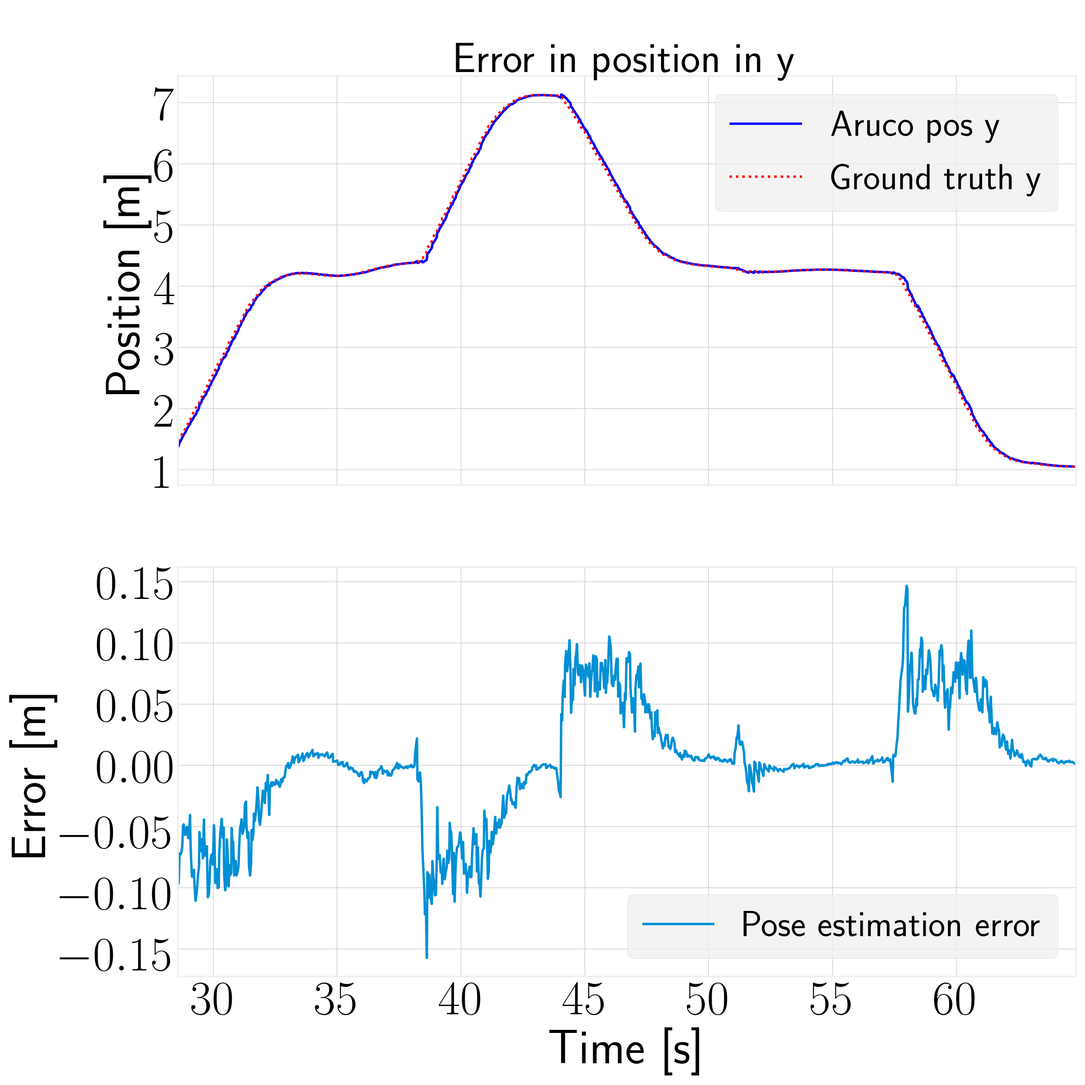
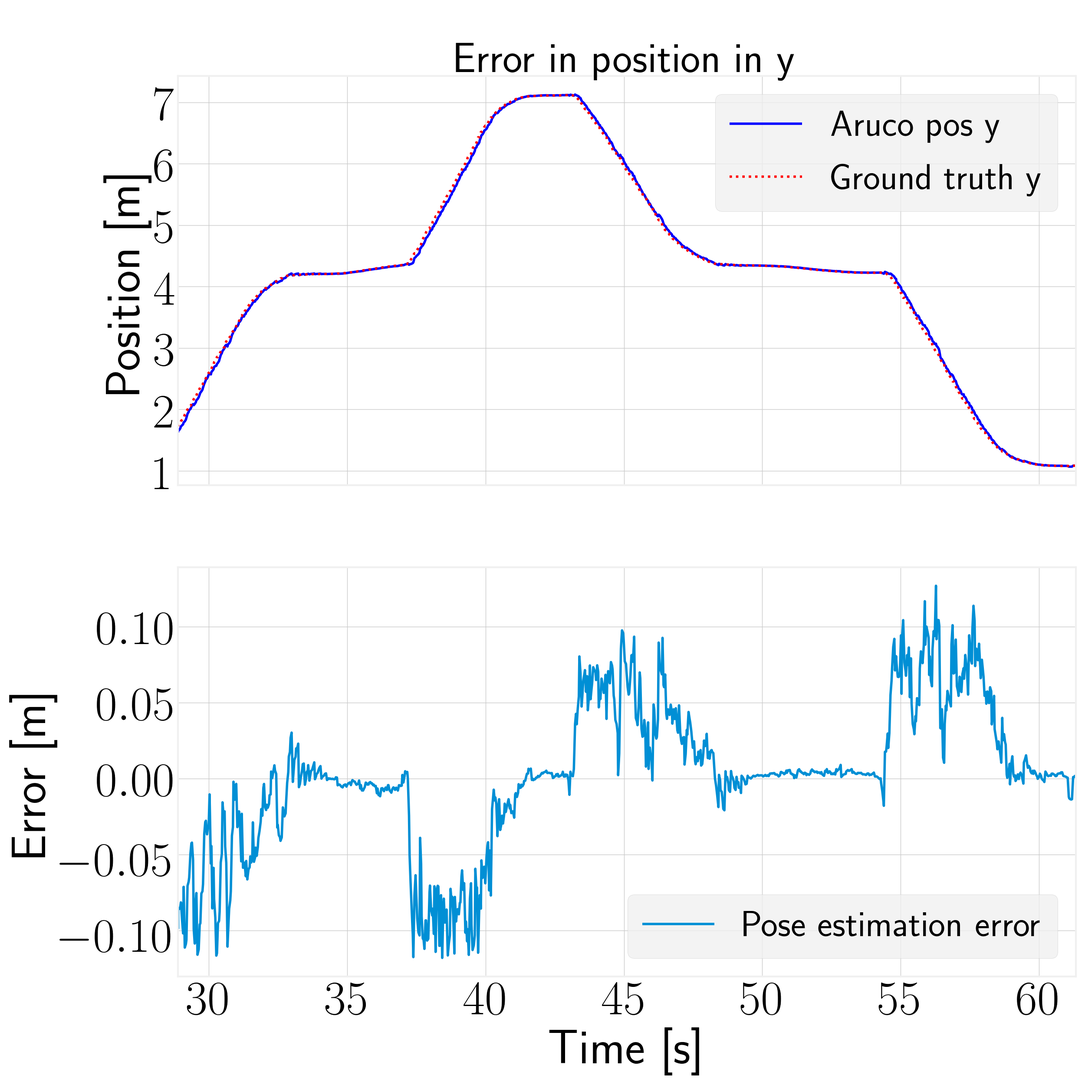
Report updated

diff --git a/master_report/Sections/discussion.tex b/master_report/Sections/discussion.tex
@@ -14,20 +14,21 @@ From this analysis the default settings of the control schemes in the PX4 autopi
 
 The results of testing the implementation of the GPS to vision transition from Section \ref{fig:state_machine_gps2vision_transition} can be seen in Section \ref{sec:gps2vision_transition}. In general it yielded quite good and reliable performance as seen Table \ref{tab:gps2vision_statistics} where almost all runs where completed successfully in a reasonable amount of time. The velocity of the UAV was set to a higher value when using GPS compared to that of using vision (using the GPS2Vision marker board for pose estimates), because instabilities of the system could occur when the UAV was flying towards the GPS2Vision marker board in the last step of the transition as seen in Figure \ref{fig:GPS2Vision_test1_test3}. This instability was due to the UAV having a large angle in roll when flying fast which caused the UAV to loose sight of the GPS2Vision marker board located on the wall. This puts a limit to the current implementation of the system in regard to horizontal velocity. This issue of losing sight of the markers was also observed when the UAV changed the use of camera which can be seen in Figure \ref{fig:gps2vision_vision_navigation}, where the UAV begins to use data from the bottom camera for pose estimation of ArUco markers located on the ground. In this case, the reason for losing sight of the markers located on the ground was due to that a strong wind applied to the simulation in test 3 in Table \ref{tab:gps2vision_statistics}. Here it may be noticed that the UAV where only able to complete 17 out of 20 trials. This is because the UAV lost sight of the markers located on the ground which forced the UAV to land on the ground. As already mentioned, this puts a limit to the implementation where wind speeds of more than 7-10 $\frac{m}{s}$ may cause instabilities to the system and should be avoided. Even though strong winds where applied, the UAV had no problems of navigating to the GPS2Vision marker board as seen in Figure \ref{fig:GPS2Vision_test3}. Here it can be seen that the ground truth of the routes that the UAV takes from an initial position through the substates of the GPS to vision transition, is more disturbed than the one in Figure \ref{fig:GPS2Vision_test1} due to the wind. This concludes that the systems works, but has its limitations because of the fixed cameras attached to the UAV. A way to mitigate this issue, is to use gimbal cameras instead. This type of camera is equipped with motors and sensors which makes it capable of stabilizing its pose. By implementing this solution on the UAV, the just described issues could be solved, and thereby making the system more robust to external influences like wind.     
 
-Results of vision based navigation utilizing sensor fusion can be seen in Section \ref{sec:vision_based_navigation}. The performance of the implementation can be seen in Table \ref{tab:vision_navigation_stastitics} where the used ArUco marker boards can be seen in Figure \ref{fig:vision_navigation_boards}. It is quite remarkable that the error in pose estimation does not seem to grow between from test one and two using the configuration in Figure \ref{fig:vision_navigation_full_pattern_board} and \ref{fig:vision_navigation_one_pattern_board} respectively. Here the error is 2.44 centimeters for the mean position and 1.59 and 1.30 degrees for the mean angles. One would expect that the error should increase as the number of ArUco markers decreases in the image. A possible explanation to this is that when the UAV is flying, an hereby having an angle in either roll or pitch, the outermost markers visible in the image gives bad results because of the perspective in the image which causes the resulting error in the ArUco pose estimations to increase. The possibility for this scenario is reduced in the configuration in Figure \ref{fig:vision_navigation_one_pattern_board}, but now a lesser number of markers in the image yields the same corresponding error in the pose estimation. The error first seems to increase when a minimum amount of ArUco markers are located on the ground as seen in the configuration in Figure \ref{fig:vision_navigation_one_pattern_board_missing_markers} and \ref{fig:vision_navigation_one_pattern_board_missing_markers_wear}. This increased error is due to the system does not get the same amount of updates from the ArUco pose estimation and has to rely more on the noisier measurements from IMU and barometers used in the sensor fusion algorithm. However, it must be mentioned that the biggest contributor to the increased error comes from a time delay between the calculations of sensor fusion and the ground truth pose of the UAV. This can be seen in Figure \ref{fig:vision_navigation_error_pos} and \ref{fig:vision_navigation_error_angle}. Here it can be noticed that the sensor fusion pose estimation lacks behind that of the ground truth which is quite easy to see when the UAV changes its pose in a fast manner. This results in big errors especially in the yaw angle when shifting from 180$^{\circ}$ to -180$^{\circ}$ which is seen in Figure \ref{fig:vision_navigation_error_yaw}. Moreover, the estimation of the altitude seen in Figure \ref{fig:vision_navigation_error_z} can be seen to fluctuate quite a lot. This is due to the fusion with barometer data which is more noisy then that of the ArUco pose estimation. Here the measurement noise matrix for barometer measurements could be fine tuned UKF to yield better performance by adding more noise to this measurement in the matrix. 
+Results of vision based navigation utilizing sensor fusion can be seen in Section \ref{sec:vision_based_navigation}. The performance of the implementation can be seen in Table \ref{tab:vision_navigation_stastitics} where the used ArUco marker boards can be seen in Figure \ref{fig:vision_navigation_boards}. It is quite remarkable that the error in pose estimation does not seem to grow between test one and two using the configuration in Figure \ref{fig:vision_navigation_full_pattern_board} and \ref{fig:vision_navigation_one_pattern_board} respectively. Here the error is 2.44 centimeters for the mean position and 1.59 and 1.30 degrees for the mean angles. One would expect that the error should increase as the number of ArUco markers decreases in the image. A possible explanation to this is that when the UAV is flying, an hereby having an angle in either roll or pitch, the outermost markers visible in the image gives bad results because of the perspective in the image which causes the resulting error in the ArUco pose estimations to increase. The possibility for this scenario is reduced in the configuration in Figure \ref{fig:vision_navigation_one_pattern_board}, but now a lesser number of markers in the image yields the same corresponding error in the pose estimation. The error first seems to increase when a minimum amount of ArUco markers are located on the ground as seen in the configuration in Figure \ref{fig:vision_navigation_one_pattern_board_missing_markers} and \ref{fig:vision_navigation_one_pattern_board_missing_markers_wear}. This increased error is due to the system does not get the same amount of updates from the ArUco pose estimation and has to rely more on the noisier measurements from IMU and barometers used in the sensor fusion algorithm. However, it must be mentioned that the biggest contributor to the increased error comes from a time delay between the calculations of sensor fusion and the ground truth pose of the UAV. This can be seen in Figure \ref{fig:vision_navigation_error_pos} and \ref{fig:vision_navigation_error_angle}. Here it can be noticed that the sensor fusion pose estimation lacks behind that of the ground truth which is quite easy to see when the UAV changes its pose in a fast manner. This results in big errors especially in the yaw angle when shifting from 180$^{\circ}$ to -180$^{\circ}$ which is seen in Figure \ref{fig:vision_navigation_error_yaw}. Moreover, the estimation of the altitude seen in Figure \ref{fig:vision_navigation_error_z} can be seen to fluctuate quite a lot. This is due to the fusion with barometer data which is more noisy then that of the ArUco pose estimation. Here the measurement noise matrix for barometer measurements could be fine tuned in the UKF to yield better performance by adding more noise to this measurement in the matrix. Even thought a time lack due exist it does not cause the system to be unstable because the UAV was capable of finishing all runs in all tests in Table \ref{tab:vision_navigation_stastitics}. Visualizations of some of these tests can be seen in Figure \ref{fig:vision_navigation_2d_path}. Here a top view of the ground truth path of the UAV can be seen, where it starts in front of the GPS2Vision marker board and then randomly moves to one of the three landing stations and back again to its initial position. From Figure \ref{fig:vision_navigation_2d_path_full_board}, the UAV can be seen to follow the wanted trajectory quite nicely. Here it may be noticed that the UAV do not always end up at the target waypoint which is illustrated by a blue dot. However, this is due to the waypoint check error being 0.1 meters. Lowering this threshold would yield the UAV being closer to the target waypoints, but this would make the UAV wait longer at each waypoint for the system to settle before moving on to the next target. What goes for the test Figure \ref{vision_navigation_2d_path_full_board} and \ref{fig:vision_navigation_2d_path_missing_markers_wear_vel_1.0} is that the horizontal velocity of the UAV was set to 1 $\frac{m}{s}$. However, in Figure \ref{fig:vision_navigation_2d_path_missing_markers_wear_vel_5.0}, a stress test was made to see how well the UAV was able to manage high velocities which is this case was 5 $\frac{m}{s}$. As it can be seen, the UAV does a great job even though a minimum amount of markers is visible. In this case the system relies heavily on measurements from IMU and barometer date in sensor fusion to give updates for new pose estimates to the UAV. Like already mentioned, the reason that the UAV does not follow the trajectory completely, is because the system does not have to settle at each waypoint before moving on to the next due to the choose of waypoint check error. 
 
+It must be mentioned, that no blur was added to the images in the simulations. Blur in the images can make considerable performance decreasement if the camera cannot coup with fast changes in the image. Ways to to take this into account is to alter the settings in aperture or exposure time in the camera configuration. This controls the opening of the lens in regard to aperture and how much light the sensor absorbs before the image is processed in regard to exposure time. Especially the latter can be altered which effectively removes blur in the images, but comes with the expense of the darker image due to lesser amount of light being absorbed in each frame. These considerations much be taken into account for the operational environment in question where a camera with a very high frame rate must be considered if the UAV have to move with great velocities when using the bottom camera to detect markers for pose estimation. 
 
- 
-As mentioned in Table \ref{tab:vision_navigation_stastitics}, the estimated error is quite high due to a time delay between the ground truth pose of the drone and the estimations from sensor fusion. This can be seen in Figures \ref{fig:vision_navigation_error_pos} and \ref{fig:vision_navigation_error_angle} where the estimations of the pose follows the ground truth quite nicely, but the errors arises when large changes in the pose occurs. This scenario is likely to occur in real life because the Raspberry Pi, which would be responsible for calculations of the pose, would have a sparse amount of resources available compared to that of the computer in the simulated environment. Even though the estimated pose lack behind compared to the ground truth, the stability of the system does not decrease.   
+Another thing to mention is the implementation of the noise estimation in the accelerometer and gyro. As discussed in Section \ref{sec:ukf_implementation}, this noise is estimated by taken ten seconds of measurements when the UAV is steady and then finding the average of these measurements to be subtracted from new measurements of IMU data to effectively remove noise. However, this method could be effected by errors if the UAV does not stand on a completely flat surface. This is no problem in the simulation, but in real life it could lead to errors in the estimation. This could also be due to the PX4 attached to the UAV having a small angle which could lead to the same error. A possible implementation to mitigate this issue is to use the markers to estimate the error in the IMU data as a sort of error state filter. This was actually considered, but not implemented due to time constrains. An implementation proposed by Isaac Skog \cite{GNSSaidedINS} where an EKF propagates and estimates the error states using GPS and IMU data for correction could have been considered implemented in the already created UKF from Section \ref{sec:ukf_implementation}. This way the error could be estimated in flight when reliable pose estimates from ArUco markers were present.    
 
-As seen in Figure \ref{fig:vision_navigation_2d_path}, the drone follows the target trajectories nicely. In Figure \ref{fig:vision_navigation_2d_path_missing_markers_wear_vel_5.0}, the drone seems to deviate quite a bit from the target trajectory, but that is mostly due to horizontal velocity being $5 \frac{m}{s}$ which tends to be in upper threshold for the maximum velocity in the current configuration if the trajectories are important to keep. 
+The results of the landing tests can be seen in Section \ref{sec:vision_based_landing}. A total of six hundred landings where performed in different configurations for testing of the stability of the system. A summarization of the first three hundred landings can be seen in Table \ref{tab:vision_based_landing_statistics_waypoint_error_0.1}. In this configuration, the waypoint check error (WP error) is set to 0.1 meters for both test one, two and three. However the vertical velocities where set to 0.1 $\frac{m}{s}$ in test one, 0.5 $\frac{m}{s}$ in test two and 0.9 $\frac{m}{s}$ in test three. These changes in velocity can clearly be seen to have an effect on the minimum, maximum, mean and STD error. This can be seen by looking at the mean error which is quite acceptable in test one where the mean error is approximately the same for all landing stations with the smallest being a 5.79 cm offset to the target. The increased accuracy comes at the cost of a longer landing time. Here the smallest landing time is 11.51 seconds and smallest stabilization time 0.70 seconds. It may the noticed that the stabilization time in general is much shorter for landing station two for both test one, two and three. A possible reason for this is that the UAV does not have a long flight time before reaching the landing station two from landing station one and three. This will yield a shorter stabilization time before the UAV begins to land. In test 3, the landing time is at the lowest. This yields a general landing time in a few couple of seconds. In this test the mean error is just below the maximum wanted criteria of $\pm 10$ centimeters. However, the worst landing error is in the order of 18.45 centimeters. A visualization of this test can be seen in Figure \ref{fig:vision_based_landing_test3} where the target landing is in the middle of the green circles with an acceptance region of $10$ centimeters in radius. It may be noticed that the final landing positions are primarily located to the left of the target in Figure \ref{fig:vision_based_landing_landing_station_one_test3} and to the right in Figure \ref{fig:vision_based_landing_landing_station_three_test3}. This is because the UAV comes from right to left in Figure \ref{fig:vision_based_landing_landing_station_one_test3} and left to right in Figure \ref{fig:vision_based_landing_landing_station_three_test3} where the UAV is not given time to properly stabilize before the landing is initiated as already mentioned. In this scenario is yields both a bad accuracy as well as precision. In Figure \ref{fig:vision_based_landing_landing_station_two_test3} the accuracy is much better but still with a bad precision. An interesting point to note is that the amount of markers visible in the image does not seem to yield an performance improvement in this configuration with the current setup of waypoint check error and velocities. The overall success rate of the final landings inside of the acceptance region was found to be 92\% for test one, 87\% for test two and 58\% for test three based on the number of runs and success defined in Table \ref{tab:vision_based_landing_statistics_waypoint_error_0.1}. 
 
-Even though the drone deviates from the wanted paths, the target waypoints can be seen to be followed nicely. This gives an indication of the robustness of the current implementation using sensor fusion, where the drone does not decreases in stability even though the markers are only minimally visible and only in some of the images. 
+In test four, five and six in Table \ref{tab:vision_based_landing_statistics_waypoint_error_0.05}, the waypoint check error can be seen to be decreased which means that the error in waypoint checking must be below 0.05. Using this configuration yields a longer stabilization time, but gives a much better mean error along with a better accuracy and precision in the final landings as seen in Figure \ref{fig:vision_based_landing_test4}. The overall success rate of the final landings inside of the acceptance region was found to be 98\% for test four, 96\% for test five and 93\% for test six based on the number of runs and success defined in Table \ref{tab:vision_based_landing_statistics_waypoint_error_0.05}. 
 
-The results of a total of six hundred landings can be seen in Tables \ref{tab:vision_based_landing_statistics_waypoint_error_0.1} and \ref{tab:vision_based_landing_statistics_waypoint_error_0.05}. It can be seen that the vertical velocity along with the waypoint error plays a major role in the error in the final landing position in the implemented configuration. This is because the drone needs to settle when placed in front of the ArUco landing board before initiating its landing procedure. Moreover, there does not seem to be a performance boost by using an ArUco board with a lot of markers, because the biggest challenge in this configuration is the actual pose control in the PX4 software which would have to be fine-tuned to achieve even better performance. This could be done by changing the parameters in the PID controllers for position and velocity control of the drone. However, because this fine-tuning of the PID parameters would be case specific, could change a lot when moving to the actual drone, the default configuration of the PID parameters will be kept as default with possible changes when moving on with the actual drone in real life. 
+Compared to similar results from other work the implementation is quite acceptable. In \cite[p.~5]{AutomaticnavigationandlandingofanindoorAR} they achieves an average error of 6 centimeters for a number of ten vision based landings. Here the result is based on real flight tests of a UAV in indoor environments. In \cite[p.~56]{AutonomousRechargingSystemforDronesTwo} they achieves a 10 centimeter offset from the wanted landing position. However, this result was based on outdoor tests on a real implementation of a UAV which was also the case in \cite[p.~6]{AVisionBasedSystemForAutonomousVerticaLanding} who achieves a mean error offset from the wanted landing position of 18 centimeters. Because these results are all based on real implementations of the vision based landing on a UAV, it would not be fair to make comparisons directly. However, if the results from the simulation in Table \ref{tab:vision_based_landing_statistics_waypoint_error_0.05} yields similar performance in real life testing of the UAV, the system would yield better results than the related implementations just discussed. 
 
-Visualizations of the final landing positions seen from above can be seen in Figures \ref{fig:vision_based_landing_test3} and \ref{fig:vision_based_landing_test4}. It may be noticed that the error is bigger for landing station one and three in \ref{fig:vision_based_landing_landing_station_one_test3} and \ref{fig:vision_based_landing_landing_station_three_test3} respectively. This is because the drone could have moved between landing station one and three or landing station three to one where the system has not settled properly before performing the landing procedure. This is exactly the problem which is solved when decreasing the waypoint error in Figure \ref{fig:vision_based_landing_test4} which can clearly be seen to have a positive impact on the final landing error in Figures \ref{fig:vision_based_landing_landing_station_one_test4} and \ref{fig:vision_based_landing_landing_station_three_test4}.  
+The implementation could be improved by altering the PID parameters in the pose control scheme of the PX4 autopilot. This could make the pose controller respond more quickly to changes in the pose of the UAV and hence give a better pose control when new setpoints where given to the system.    
 
-In general, a maximum final landing error of $\pm$ 10 centimeters is achieved when the checkpoint and vertical velocities are chosen correctly as in test 4, with only minor deviations from the maximum allowed landing position error. 
+Another improvement to the vision based landing procedure could be to take inspriration from Guanya Shi et al. \cite{NeuralLander} who proposed a deep
+learning based robust nonlinear controller. In this implementation a deep neural network (DNN) is used. This setup makes it possible for the system to learn the parameters of the control system which makes it capable of flying very close to the ground. This is because the implementation reduces the aerodynamic ground effect. That way the control system learns to handle the extra airflow caused by the aerodynamic ground effect which yields a smother and precise landing.  
 
 \end{document}

diff --git a/master_report/Sections/results.tex b/master_report/Sections/results.tex
@@ -354,21 +354,21 @@ Setpoint         & 10      & No & $2.89cm$ & $2.85cm$ & $0.11^{\circ}$ & $0.09^{
     \centering
     \begin{subfigure}[t]{.30\textwidth}
         \centering
-        \includegraphics[width=\textwidth]{../Figures/hold_pose_using_aruco_pose_estimation/test2_gps2visionBoard_1.0Wind_-1.0y/error_x/pose_error_x_test1.png}
+        \includegraphics[width=\textwidth]{../Figures/hold_pose_using_aruco_pose_estimation/pose_error_x_test2.png}
         \caption{}
         \label{fig:hold_pose_estimation_test2_x}
     \end{subfigure}
      \hspace{0.2em}
     \begin{subfigure}[t]{.30\textwidth}
         \centering
-        \includegraphics[width=\textwidth]{../Figures//hold_pose_using_aruco_pose_estimation/test2_gps2visionBoard_1.0Wind_-1.0y/error_y/pose_error_y_test1.png}
+        \includegraphics[width=\textwidth]{../Figures//hold_pose_using_aruco_pose_estimation/pose_error_y_test2.png}
         \caption{}
         \label{fig:hold_pose_estimation_test2_y}
     \end{subfigure}
      \hspace{0.2em}
     \begin{subfigure}[t]{.30\textwidth}
         \centering
-        \includegraphics[width=\textwidth]{../Figures/hold_pose_using_aruco_pose_estimation/test2_gps2visionBoard_1.0Wind_-1.0y/error_z/pose_error_z_test1.png}
+        \includegraphics[width=\textwidth]{../Figures/hold_pose_using_aruco_pose_estimation/pose_error_z_test2.png}
         \caption{}
         \label{fig:hold_pose_estimation_test2_z}
     \end{subfigure}
@@ -380,21 +380,21 @@ Setpoint         & 10      & No & $2.89cm$ & $2.85cm$ & $0.11^{\circ}$ & $0.09^{
     \centering
     \begin{subfigure}[t]{.30\textwidth}
         \centering
-        \includegraphics[width=\textwidth]{../Figures/hold_pose_using_aruco_pose_estimation/test2_gps2visionBoard_1.0Wind_-1.0y/error_roll/pose_error_roll_test1.png}
+        \includegraphics[width=\textwidth]{../Figures/hold_pose_using_aruco_pose_estimation/pose_error_roll_test2.png}
         \caption{}
         \label{fig:hold_pose_estimation_test2_roll}
     \end{subfigure}
      \hspace{0.2em}
     \begin{subfigure}[t]{.30\textwidth}
         \centering
-        \includegraphics[width=\textwidth]{../Figures//hold_pose_using_aruco_pose_estimation/test2_gps2visionBoard_1.0Wind_-1.0y/error_pitch/pose_error_pitch_test1.png}
+        \includegraphics[width=\textwidth]{../Figures//hold_pose_using_aruco_pose_estimation/pose_error_pitch_test2.png}
         \caption{}
         \label{fig:hold_pose_estimation_test2_pitch}
     \end{subfigure}
      \hspace{0.2em}
     \begin{subfigure}[t]{.30\textwidth}
         \centering
-        \includegraphics[width=\textwidth]{../Figures/hold_pose_using_aruco_pose_estimation/test2_gps2visionBoard_1.0Wind_-1.0y/error_yaw/pose_error_yaw_test1.png}
+        \includegraphics[width=\textwidth]{../Figures/hold_pose_using_aruco_pose_estimation/pose_error_yaw_test2.png}
         \caption{}
         \label{fig:hold_pose_estimation_test2_yaw}
     \end{subfigure}
@@ -406,21 +406,21 @@ Setpoint         & 10      & No & $2.89cm$ & $2.85cm$ & $0.11^{\circ}$ & $0.09^{
     \centering
     \begin{subfigure}[t]{.30\textwidth}
         \centering
-        \includegraphics[width=\textwidth]{../Figures/hold_pose_using_aruco_pose_estimation/test5_landingBoard3_noWind/error_x/pose_error_x_test1.png}
+        \includegraphics[width=\textwidth]{../Figures/hold_pose_using_aruco_pose_estimation/pose_error_x_test1.png}
         \caption{}
         \label{fig:hold_pose_estimation_test5_x}
     \end{subfigure}
      \hspace{0.2em}
     \begin{subfigure}[t]{.30\textwidth}
         \centering
-        \includegraphics[width=\textwidth]{../Figures//hold_pose_using_aruco_pose_estimation/test5_landingBoard3_noWind/error_y/pose_error_y_test1.png}
+        \includegraphics[width=\textwidth]{../Figures/hold_pose_using_aruco_pose_estimation/pose_error_y_test1.png}
         \caption{}
         \label{fig:hold_pose_estimation_test5_y}
     \end{subfigure}
      \hspace{0.2em}
     \begin{subfigure}[t]{.30\textwidth}
         \centering
-        \includegraphics[width=\textwidth]{../Figures/hold_pose_using_aruco_pose_estimation/test5_landingBoard3_noWind/error_z/pose_error_z_test1.png}
+        \includegraphics[width=\textwidth]{../Figures/hold_pose_using_aruco_pose_estimation/pose_error_z_test1.png}
         \caption{}
         \label{fig:hold_pose_estimation_test5_z}
     \end{subfigure}
@@ -432,21 +432,21 @@ Setpoint         & 10      & No & $2.89cm$ & $2.85cm$ & $0.11^{\circ}$ & $0.09^{
     \centering
     \begin{subfigure}[t]{.30\textwidth}
         \centering
-        \includegraphics[width=\textwidth]{../Figures/hold_pose_using_aruco_pose_estimation/test5_landingBoard3_noWind/error_roll/pose_error_roll_test1.png}
+        \includegraphics[width=\textwidth]{../Figures/hold_pose_using_aruco_pose_estimation/pose_error_roll_test1.png}
         \caption{}
         \label{fig:hold_pose_estimation_test5_roll}
     \end{subfigure}
      \hspace{0.2em}
     \begin{subfigure}[t]{.30\textwidth}
         \centering
-        \includegraphics[width=\textwidth]{../Figures//hold_pose_using_aruco_pose_estimation/test5_landingBoard3_noWind/error_pitch/pose_error_pitch_test1.png}
+        \includegraphics[width=\textwidth]{../Figures/hold_pose_using_aruco_pose_estimation/pose_error_pitch_test1.png}
         \caption{}
         \label{fig:hold_pose_estimation_test5_pitch}
     \end{subfigure}
      \hspace{0.2em}
     \begin{subfigure}[t]{.30\textwidth}
         \centering
-        \includegraphics[width=\textwidth]{../Figures/hold_pose_using_aruco_pose_estimation/test5_landingBoard3_noWind/error_yaw/pose_error_yaw_test1.png}
+        \includegraphics[width=\textwidth]{../Figures/hold_pose_using_aruco_pose_estimation/pose_error_yaw_test1.png}
         \caption{}
         \label{fig:hold_pose_estimation_test5_yaw}
     \end{subfigure}
@@ -715,21 +715,21 @@ The ground truth pose of the UAV will be compared to the estimates of the pose f
     \centering
     \begin{subfigure}[t]{.30\textwidth}
         \centering
-        \includegraphics[width=\textwidth]{../Figures/vision_navigation/test1_full_pattern_board/error_x/pose_error_x_test1.png}
+        \includegraphics[width=\textwidth]{../Figures/vision_navigation/pose_error_x_test2.png}
         \caption{}
         \label{fig:vision_navigation_error_x}
     \end{subfigure}
      \hspace{0.2em}
     \begin{subfigure}[t]{.30\textwidth}
         \centering
-        \includegraphics[width=\textwidth]{../Figures/vision_navigation/test1_full_pattern_board/error_y/pose_error_y_test1.png}
+        \includegraphics[width=\textwidth]{../Figures/vision_navigation/pose_error_y_test2.png}
         \caption{}
         \label{fig:vision_navigation_error_y}
     \end{subfigure}
      \hspace{0.2em}
     \begin{subfigure}[t]{.30\textwidth}
         \centering
-        \includegraphics[width=\textwidth]{../Figures/vision_navigation/test1_full_pattern_board/error_z/pose_error_z_test1.png}
+        \includegraphics[width=\textwidth]{../Figures/vision_navigation/pose_error_z_test2.png}
         \caption{}
         \label{fig:vision_navigation_error_z}
     \end{subfigure}
@@ -741,21 +741,21 @@ The ground truth pose of the UAV will be compared to the estimates of the pose f
     \centering
     \begin{subfigure}[t]{.30\textwidth}
         \centering
-        \includegraphics[width=\textwidth]{../Figures/vision_navigation/test1_full_pattern_board/error_roll/pose_error_roll_test1.png}
+        \includegraphics[width=\textwidth]{../Figures/vision_navigation/pose_error_roll_test2.png}
         \caption{}
         \label{fig:vision_navigation_error_roll}
     \end{subfigure}
      \hspace{0.2em}
     \begin{subfigure}[t]{.30\textwidth}
         \centering
-        \includegraphics[width=\textwidth]{../Figures/vision_navigation/test1_full_pattern_board/error_pitch/pose_error_pitch_test1.png}
+        \includegraphics[width=\textwidth]{../Figures/vision_navigation/pose_error_pitch_test2.png}
         \caption{}
         \label{fig:vision_navigation_error_pitch}
     \end{subfigure}
      \hspace{0.2em}
     \begin{subfigure}[t]{.30\textwidth}
         \centering
-        \includegraphics[width=\textwidth]{../Figures/vision_navigation/test1_full_pattern_board/error_yaw/pose_error_yaw_test1.png}
+        \includegraphics[width=\textwidth]{../Figures/vision_navigation/pose_error_yaw_test2.png}
         \caption{}
         \label{fig:vision_navigation_error_yaw}
     \end{subfigure}
@@ -852,19 +852,19 @@ Here the \textit{.world} file must be changed in Listing \ref{lst:vision_navigat
                 dec sep align
         }
         ]{ %
-        Station & eg & Waypoint error & Velocity & Min & Max & Mean & STD & Stabilize time & Landing time\\
-        \topmidheader{11}{\textbf{Test 1}}
-        One         & 35      & $0.1 m$ & $0.1 \frac{m}{s}$ & $1.60cm$ & $12.46cm$ & $5.81cm$ & $3.02cm$ & $3.60s$ &$11.51s$\\
-        two         & 30     & $0.1 m$ & $0.1 \frac{m}{s}$ & $0.70cm$ & $11.83 cm$& $5.79cm$ & $2.54cm$& $0.70s$ &$11.76s$\\     
-        Three       & 35     & $0.1 m$ & $0.1 \frac{m}{s}$ & $0.62cm$ & $10.75cm$ & $5.86cm$ & $2.50cm$& $3.22s$ &$11.82s$\\    
-        \midheader{11}{\textbf{Test 2}}
-        One         & 33      & $0.1 m$ & $0.5 \frac{m}{s}$ & $2.20cm$ & $15.04cm$ & $8.00cm$ & $2.67cm$ & $2.63s$ &$3.00s$\\
-        two         & 29     & $0.1 m$ & $0.5 \frac{m}{s}$ & $3.18cm$ & $11.60 cm$& $7.62cm$ & $2.19cm$& $0.20s$ &$3.00s$\\     
-        Three       & 38     & $0.1 m$ & $0.5 \frac{m}{s}$ & $1.11cm$ & $14.63cm$ & $7.87cm$ & $3.25cm$& $2.18s$ &$3.02s$\\    
-        \midheader{11}{\textbf{Test 3}}
-        One         & 32      & $0.1 m$ & $0.9 \frac{m}{s}$ & $4.63cm$ & $14.01cm$ & $9.25cm$ & $2.27cm$ & $1.68s$ &$2.15s$\\
-        two         & 36    & $0.1 m$ & $0.9 \frac{m}{s}$ & $4.79cm$ & $14.00 cm$& $9.54cm$ & $1.92cm$& $0.19s$ &$2.13s$\\     
-        Three       & 32     & $0.1 m$ & $0.9 \frac{m}{s}$ & $3.35cm$ & $18.45cm$ & $9.45cm$ & $2.88cm$& $2.09s$ &$2.18s$\\}
+        Station & eg & Success & WP error & Vel & Min & Max & Mean & STD & Stabilize time & Landing time\\
+        \topmidheader{12}{\textbf{Test 1}}
+        One         & 35   & 32  & $0.1 m$ & $0.1 \frac{m}{s}$ & $1.60cm$ & $12.46cm$ & $5.81cm$ & $3.02cm$ & $3.60s$ &$11.51s$\\
+        two         & 30  & 28   & $0.1 m$ & $0.1 \frac{m}{s}$ & $0.70cm$ & $11.83 cm$& $5.79cm$ & $2.54cm$& $0.70s$ &$11.76s$\\     
+        Three       & 35  & 32   & $0.1 m$ & $0.1 \frac{m}{s}$ & $0.62cm$ & $10.75cm$ & $5.86cm$ & $2.50cm$& $3.22s$ &$11.82s$\\    
+        \midheader{12}{\textbf{Test 2}}
+        One         & 33   & 25   & $0.1 m$ & $0.5 \frac{m}{s}$ & $2.20cm$ & $15.04cm$ & $8.00cm$ & $2.67cm$ & $2.63s$ &$3.00s$\\
+        two         & 29  & 25   & $0.1 m$ & $0.5 \frac{m}{s}$ & $3.18cm$ & $11.60 cm$& $7.62cm$ & $2.19cm$& $0.20s$ &$3.00s$\\     
+        Three       & 38  & 27   & $0.1 m$ & $0.5 \frac{m}{s}$ & $1.11cm$ & $14.63cm$ & $7.87cm$ & $3.25cm$& $2.18s$ &$3.02s$\\    
+        \midheader{12}{\textbf{Test 3}}
+        One         & 32   & 19   & $0.1 m$ & $0.9 \frac{m}{s}$ & $4.63cm$ & $14.01cm$ & $9.25cm$ & $2.27cm$ & $1.68s$ &$2.15s$\\
+        two         & 36  & 18  & $0.1 m$ & $0.9 \frac{m}{s}$ & $4.79cm$ & $14.00 cm$& $9.54cm$ & $1.92cm$& $0.19s$ &$2.13s$\\     
+        Three       & 32   & 21  & $0.1 m$ & $0.9 \frac{m}{s}$ & $3.35cm$ & $18.45cm$ & $9.45cm$ & $2.88cm$& $2.09s$ &$2.18s$\\}
         \label{tab:vision_based_landing_statistics_waypoint_error_0.1}
 \end{table}
 
@@ -905,17 +905,17 @@ Here the \textit{.world} file must be changed in Listing \ref{lst:vision_navigat
                 dec sep align
         }
         ]{ %
-        Station & eg & Waypoint error & Velocity & Min & Max & Mean & STD & Stabilize time & Landing time\\
-        \topmidheader{11}{\textbf{Test 4}}
-One         & 33      & $0.05 m$ & $0.1 \frac{m}{s}$ & $0.08cm$ & $9.46cm$ & $4.81cm$ & $2.15cm$ & $9.93s$ &$11.45s$\\
-        two         & 33    & $0.05 m$ & $0.1 \frac{m}{s}$ & $0.97cm$ & $11.18 cm$& $4.74cm$ & $2.56cm$& $6.96s$ &$11.69s$\\     
-        Three       & 34     & $0.05 m$ & $0.1 \frac{m}{s}$ & $0.19cm$ & $11.84cm$ & $4.54cm$ & $2.41cm$& $9.11s$ &$11.58s$\\        		\midheader{11}{\textbf{Test 5}}
-        One         & 32     & $0.05 m$ & $0.5 \frac{m}{s}$ & $1.63cm$ & $9.84cm$ & $5.25cm$ & $2.36cm$ & $8.43s$ &$3.00s$\\
-        two         & 32    & $0.05 m$ & $0.5 \frac{m}{s}$ & $1.31cm$ & $13.07 cm$& $5.98cm$ & $2.90cm$& $6.34s$ &$3.00s$\\     
-        Three       & 36     & $0.05 m$ & $0.5 \frac{m}{s}$ & $0.45cm$ & $12.22cm$ & $4.98cm$ & $2.88cm$& $9.33s$ &$3.00s$\\				\midheader{11}{\textbf{Test 6}}
-        One         & 32     & $0.05 m$ & $0.9 \frac{m}{s}$ & $0.20cm$ & $11.89cm$ & $4.96cm$ & $2.77cm$ & $9.18s$ &$2.28s$\\
-        two         & 35    & $0.05 m$ & $0.9 \frac{m}{s}$ & $0.65cm$ & $14.13 cm$& $5.90cm$ & $3.32cm$& $5.91s$ &$2.34s$\\     
-        Three       & 33     & $0.05 m$ & $0.9 \frac{m}{s}$ & $1.06cm$ & $13.54cm$ & $5.35cm$ & $2.70cm$& $8.54s$ &$2.36s$\\}
+        Station & eg & Success & WP error & Vel & Min & Max & Mean & STD & Stabilize time & Landing time\\
+        \topmidheader{12}{\textbf{Test 4}}
+One         & 33    & 33  & $0.05 m$ & $0.1 \frac{m}{s}$ & $0.08cm$ & $9.46cm$ & $4.81cm$ & $2.15cm$ & $9.93s$ &$11.45s$\\
+        two         & 33   & 32  & $0.05 m$ & $0.1 \frac{m}{s}$ & $0.97cm$ & $11.18 cm$& $4.74cm$ & $2.56cm$& $6.96s$ &$11.69s$\\     
+        Three       & 34    & 33  & $0.05 m$ & $0.1 \frac{m}{s}$ & $0.19cm$ & $11.84cm$ & $4.54cm$ & $2.41cm$& $9.11s$ &$11.58s$\\        		\midheader{12}{\textbf{Test 5}}
+        One         & 32    & 32  & $0.05 m$ & $0.5 \frac{m}{s}$ & $1.63cm$ & $9.84cm$ & $5.25cm$ & $2.36cm$ & $8.43s$ &$3.00s$\\
+        two         & 32   & 29  & $0.05 m$ & $0.5 \frac{m}{s}$ & $1.31cm$ & $13.07 cm$& $5.98cm$ & $2.90cm$& $6.34s$ &$3.00s$\\     
+        Three       & 36    & 35  & $0.05 m$ & $0.5 \frac{m}{s}$ & $0.45cm$ & $12.22cm$ & $4.98cm$ & $2.88cm$& $9.33s$ &$3.00s$\\				\midheader{12}{\textbf{Test 6}}
+        One         & 32    & 30  & $0.05 m$ & $0.9 \frac{m}{s}$ & $0.20cm$ & $11.89cm$ & $4.96cm$ & $2.77cm$ & $9.18s$ &$2.28s$\\
+        two         & 35   & 32  & $0.05 m$ & $0.9 \frac{m}{s}$ & $0.65cm$ & $14.13 cm$& $5.90cm$ & $3.32cm$& $5.91s$ &$2.34s$\\     
+        Three       & 33    & 31  & $0.05 m$ & $0.9 \frac{m}{s}$ & $1.06cm$ & $13.54cm$ & $5.35cm$ & $2.70cm$& $8.54s$ &$2.36s$\\}
         \label{tab:vision_based_landing_statistics_waypoint_error_0.05}
 \end{table}
 

diff --git a/data/analyse_hold_pose_using_aruco_pose_estimation/plot_data.py b/data/analyse_hold_pose_using_aruco_pose_estimation/plot_data.py
@@ -12,7 +12,7 @@ class plot_data():
 
         self.data = []
 
-        self.read_data('../hold_pose_using_aruco_pose_estimation.txt')
+        self.read_data('test2_gps2visionBoard_1.0Wind_-1.0y/test1.txt')
         
         #Aruco pose estimations
         self.aruco_x = np.array([item[0] for item in self.data])
@@ -63,7 +63,7 @@ class plot_data():
         
         ax1.legend(loc='best',fontsize=60)
         
-        df = pd.read_csv('../hold_pose_using_aruco_pose_estimation.txt', delimiter=" ")
+        df = pd.read_csv('test2_gps2visionBoard_1.0Wind_-1.0y/test1.txt', delimiter=" ")
         aruco = pd.Series(index[0], index=self.time)
         setpoint = pd.Series(index[1], index=self.time)
         ground_truth = pd.Series(index[2], index=self.time)
@@ -107,10 +107,10 @@ if __name__ == "__main__":
         'Error [m]', 'Error in position and setpoint deviation in z', [['Aruco pos z'],['Setpoint z'],['Ground truth z']], 'pose_error_z.png')
     
     tt.plot_data([tt.aruco_roll, tt.setpoint_roll, tt.g_roll], 'Time [s]', 'Time [s]', 'Angle [degress]', 
-        'Error [m]', 'Error in angle and setpoint deviation in roll', [['Aruco angle roll'],['Setpoint roll'],['Ground truth roll']], 'pose_error_roll.png')
+        'Error [degress]', 'Error in angle and setpoint deviation in roll', [['Aruco angle roll'],['Setpoint roll'],['Ground truth roll']], 'pose_error_roll.png')
     
     tt.plot_data([tt.aruco_pitch, tt.setpoint_pitch, tt.g_pitch], 'Time [s]', 'Time [s]', 'Angle [degress]', 
-            'Error [m]', 'Error in angle and setpoint deviation in pitch', [['Aruco angle pitch'],['Setpoint pitch'],['Ground truth pitch']], 'pose_error_pitch.png')
+            'Error [degress]', 'Error in angle and setpoint deviation in pitch', [['Aruco angle pitch'],['Setpoint pitch'],['Ground truth pitch']], 'pose_error_pitch.png')
     
     tt.plot_data([tt.aruco_yaw, tt.setpoint_yaw, tt.g_yaw], 'Time [s]', 'Time [s]', 'Angle [degress]', 
-            'Error [m]', 'Error in angle and setpoint deviation in yaw', [['Aruco angle yaw'],['Setpoint yaw'],['Ground truth yaw']], 'pose_error_yaw.png')
+            'Error [degress]', 'Error in angle and setpoint deviation in yaw', [['Aruco angle yaw'],['Setpoint yaw'],['Ground truth yaw']], 'pose_error_yaw.png')

diff --git a/data/analyse_vision_landing_precision_and_accuracy/plot_data.py b/data/analyse_vision_landing_precision_and_accuracy/plot_data.py
@@ -13,8 +13,11 @@ class plot_data():
 
         self.data = []
 
+        #Target waypoints above acceptence region
+        self.errors_above_acc = 0
+
         #self.read_data('test2.txt')
-        self.read_data('test6_speed_0.9_error_0.05/vision_landing_precision_and_accuracy.txt')
+        self.read_data('test3_speed_0.9_error_0.1/vision_landing_precision_and_accuracy.txt')
         
         #Landing station 
         self.landing_station = np.array([item[0] for item in self.data])
@@ -164,6 +167,13 @@ class plot_data():
         min_error = target_error.min()
         max_error = target_error.max()
 
+        #Find number of target errors above 10 cm
+        below_threshold = 0
+        for error in target_error:
+            if error < 0.10:
+                below_threshold += 1
+        self.errors_above_acc += (len(target_error)-below_threshold)
+
         print("Runs: " + str(runs))
         print("Mean error: " + "{:.4f}".format(mean_error))
         print("STD error: " + "{:.4f}".format(std_error))
@@ -171,6 +181,7 @@ class plot_data():
         print("Max error: " + "{:.4f}".format(max_error))
         print("Mean stabilization time: " + "{:.4f}".format(sum(index[6])/len(index[6])))
         print("Mean landing time: " + "{:.4f}".format(sum(index[7])/len(index[7])))
+        print("Landings in acceptence region: " + str(below_threshold) + " of " + str(len(target_error)))
         
         data = open(self.data_path,'a')
         data.write(str(runs) + " " + "{:.4f}".format(mean_error) + " " + "{:.4f}".format(std_error) + " " + "{:.4f}".format(min_error) + " " + "{:.4f}".format(max_error))
@@ -192,3 +203,5 @@ if __name__ == "__main__":
     tt.plot_data([tt.aruco_x_three, tt.aruco_y_three, tt.setpoint_x_three, tt.setpoint_y_three, tt.pose_estimation_error_three, tt.target_error_three, tt.stabilization_time_three,
         tt.landing_time_three], 'Position x [m]', 'Position y [m]', 
             'Precision and accuracy of landing for station three', [['Target landing'],['Final landing position'],['Acceptance buffer']], 'landing_for_station_three.png', radius = 0.25, s=375000) 
+
+    print("Landings outside acceptence region: " + str(tt.errors_above_acc))

diff --git a/master_report/Sections/introduction.tex b/master_report/Sections/introduction.tex
@@ -9,11 +9,23 @@ For the HealthDrone project to be successful an efficient and robust solution fo
 Using the Global Positioning System (GPS), the drone can be set to fly between destinations. However, most of these systems comes with an error in the range of meters. To achieve better, real time kinematics (RTK) can be used, which reduces the GPS error to centimeters. However, RTK is pretty expensive and hence not an optimal solution for low cost applications. Moreover, for indoor navigation, the use of GPS would not be possible because of the reduction in signal strength. 
 
 \begin{figure}[H]
-	\centering
-	\includegraphics[height=5cm]{../Figures/master_thesis_illu.png}
-	\captionsetup{justification=centering}
-    \caption{Illustration of the steps of a drone navigated autonomously using GPS to indoor navigation using computer vision leading to a precision landing }
-    \label{fig:masterProjectIllustration}
+    \centering
+    \begin{subfigure}[b]{.40\textwidth}
+        \centering
+        \includegraphics[height=3.3cm]{../Figures/img1.png}
+           %\vspace{0.5em}
+        \caption{Quadrotor airframe}
+        \label{fig:quadrotor}
+    \end{subfigure}
+    %\hspace{5.0em}
+    \begin{subfigure}[b]{.40\textwidth}
+        \centering
+        \includegraphics[height=3.3cm]{../Figures/img2.png}
+        \caption{Hexarotor airframe}
+        \label{fig:hexarotor}
+    \end{subfigure}
+    \caption{Illustration}
+    \label{fig:airframes}
 \end{figure}
 
 A solution to this problem could be to use a camera placed on the drone and analyzing the incoming data using computer vision. By placing markers on the ground, the position of these objects could be found with high precision. This would enable autonomous flight tasks where high precision of the position is needed.      

diff --git a/data/analyse_vision_navigation_pose_estimation/plot_test_data.py b/data/analyse_vision_navigation_pose_estimation/plot_test_data.py
@@ -137,21 +137,21 @@ class plot_data():
             aruco_error_std = []
             
             self.plot_data([aruco_roll, g_roll], 'Time [s]', 'Time [s]', 'Angle [degress]', 
-                'Error [m]', 'Error in angle in roll', [['Aruco angle roll'],['Ground truth roll']], 
+                'Error [degress]', 'Error in angle in roll', [['Aruco angle roll'],['Ground truth roll']], 
                 self.error_roll_plot_path + 'pose_error_roll_test' + str(test) + '.png')
             
             aruco_error_mean.append(self.aruco_mean)
             aruco_error_std.append(self.aruco_std)
 
             self.plot_data([aruco_pitch, g_pitch], 'Time [s]', 'Time [s]', 'Angle [degress]', 
-                    'Error [m]', 'Error in angle in pitch', [['Aruco angle pitch'],['Ground truth pitch']], 
+                    'Error [degress]', 'Error in angle in pitch', [['Aruco angle pitch'],['Ground truth pitch']], 
                     self.error_pitch_plot_path + 'pose_error_pitch_test' + str(test) + '.png')
             
             aruco_error_mean.append(self.aruco_mean)
             aruco_error_std.append(self.aruco_std)
 
             self.plot_data([aruco_yaw, g_yaw], 'Time [s]', 'Time [s]', 'Angle [degress]', 
-                    'Error [m]', 'Error in angle in yaw', [['Aruco angle yaw'],['Ground truth yaw']], 
+                    'Error [degress]', 'Error in angle in yaw', [['Aruco angle yaw'],['Ground truth yaw']], 
                     self.error_yaw_plot_path + 'pose_error_yaw_test' + str(test) + '.png')
             
             aruco_error_mean.append(self.aruco_mean)

diff --git a/master_report/Head/report.tex b/master_report/Head/report.tex
@@ -24,10 +24,10 @@
     \fancyhead[R]{\normalsize\rightmark}
     \fancyhead[L]{\large \textsc{Section }\normalsize\thesection}
 	    
-    %\subfile{../Sections/introduction}
+    \subfile{../Sections/introduction}
     %\clearpage
-    %\subfile{../Sections/materials}
-    %\subfile{../Sections/methods}
+    \subfile{../Sections/materials}
+    \subfile{../Sections/methods}
     %\clearpage
     \subfile{../Sections/results}
     %\clearpage
